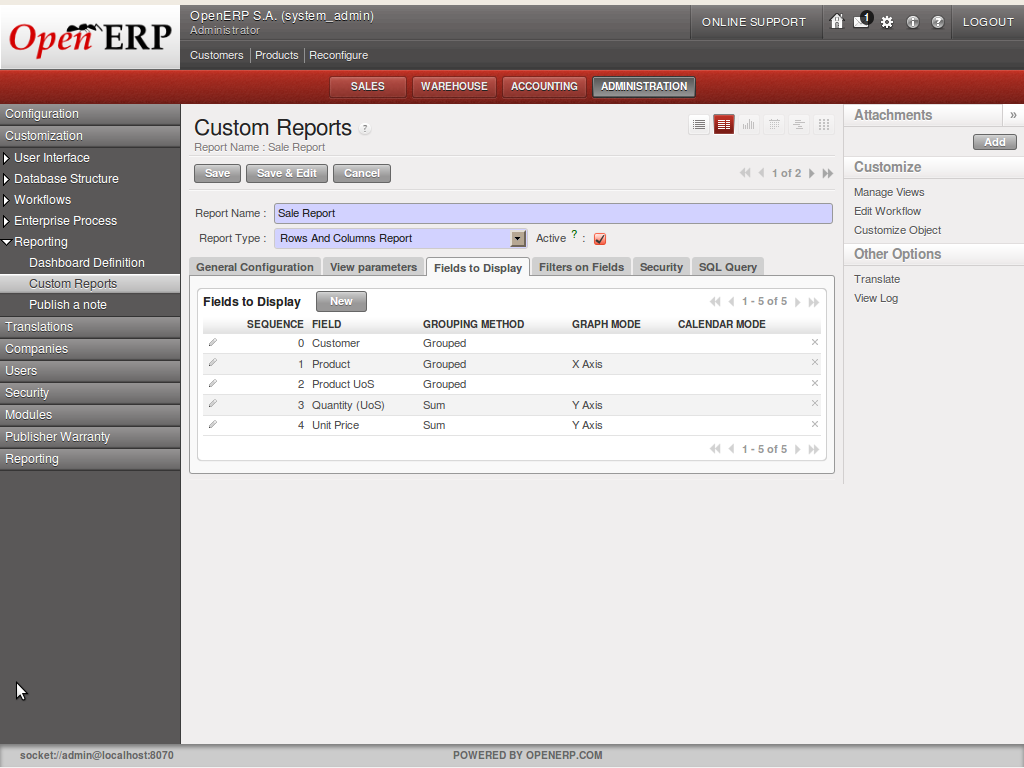
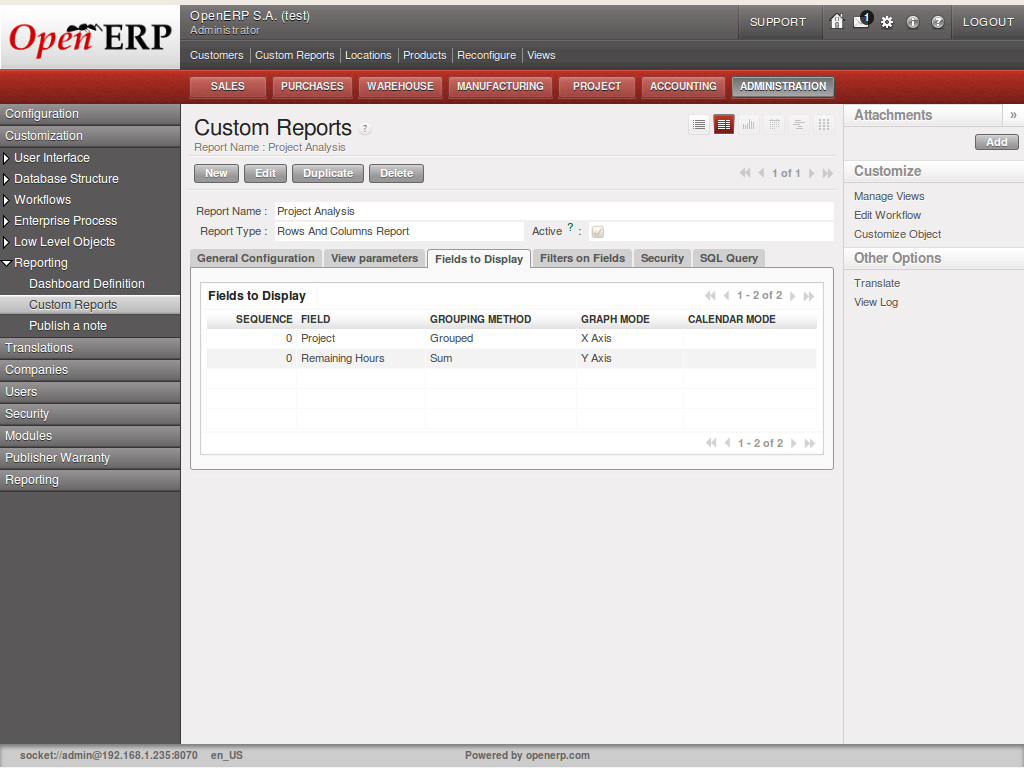
[IMP]: Configuring reports --> Managing statistical reports.

diff --git a/8/8_20_Config/8_20_Config_reports.rst b/8/8_20_Config/8_20_Config_reports.rst
@@ -26,7 +26,7 @@ Many reports are configured in advance in Open ERP. You can find them in the :m
 under each main menu entry.
 
 Modelling a new report
-^^^^^^^^^^^^^^^^^^^^^
+^^^^^^^^^^^^^^^^^^^^^^
 
 .. index::
    single: module; base_report_creator
@@ -62,7 +62,7 @@ report.
    :scale: 75
    :align: center
 
-   *Fields selected for the analysis of sales by customer and by product*
+   *Fields selected for the project analysis*
 
 In the third tab :guilabel:`Fields to Display` you must indicate which of the fields in the list you want to be shown in your report. Complete the screen along the lines of the figure below.
 
@@ -99,17 +99,17 @@ top of this tab. For the moment, do not add a filter.
 You can now :guilabel:`Save` the report you defined. Click on the :guilabel:`Open Report` button to
 the right of the form on the :guilabel:`General Configuration` tab to get the requested analysis.
 
-.. figure::  images/report_sale_tree.png
+.. figure::  images/report_project_tree.png
    :scale: 75
    :align: center
 
-   *Analyzing sales by partner and by product in list view*
+   *Analyzing task by project in tree view*
 
-.. figure::  images/report_sale_graphe.png
+.. figure::  images/report_project_graph.png
    :scale: 75
    :align: center
 
-   *Analyzing sales by partner and by product in graph view*
+   *Analyzing task by project in graph view*
 
 .. index::
    single: configuring; dashboard
@@ -344,7 +344,7 @@ This template can be customized by changing the company information through the 
 and edit the fields Report Header, Report Footer 1, Report Footer 2 in the :guilabel:`General Information` tab.
 If your company has a logo that you would want to appear in all reports, you may add it using the :guilabel:`Logo` field.
 You can also change the appearance of the header/footer by editing the XML code in the tabs :guilabel:`Header/Footer`
-and :guilabel:`Internal Header/Footer`. 
+and :guilabel:`Internal Header/Footer`.
 
 For any kind of troubleshooting problems kindly mail us at cde@tinyerp.com.
 

diff --git a/4/4_13_Projects/4_13_Projects_management.rst b/4/4_13_Projects/4_13_Projects_management.rst
@@ -169,7 +169,7 @@ If you want to connect your Sales Order with Project tasks you should create suc
 products as \ ``Consultant``\  , and \ ``Senior Developer``\  . These products should be configured
 with :guilabel:`Product Type` \ ``Service``\ , a :guilabel:`Procurement Method` of \ ``Make to Order``\  ,
 and a :guilabel:`Supply Method` of \ ``Produce``\  . Once you have set this up,
-Open ERP automatically creates a task in project management when the order is approved.
+OpenERP automatically creates a task in project management when the order is approved.
 
 You can also change some of the order parameters, which affects the invoice:
 
